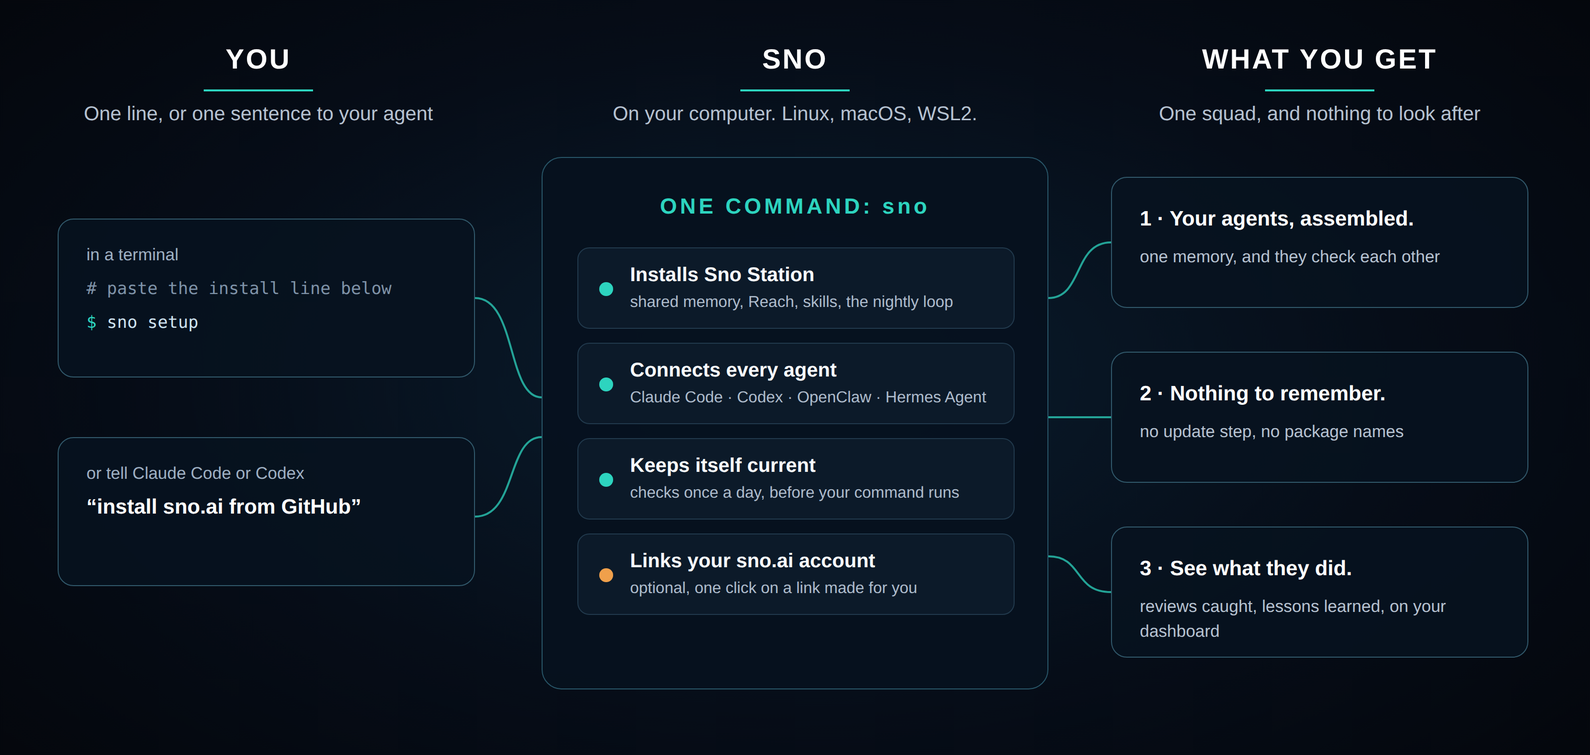
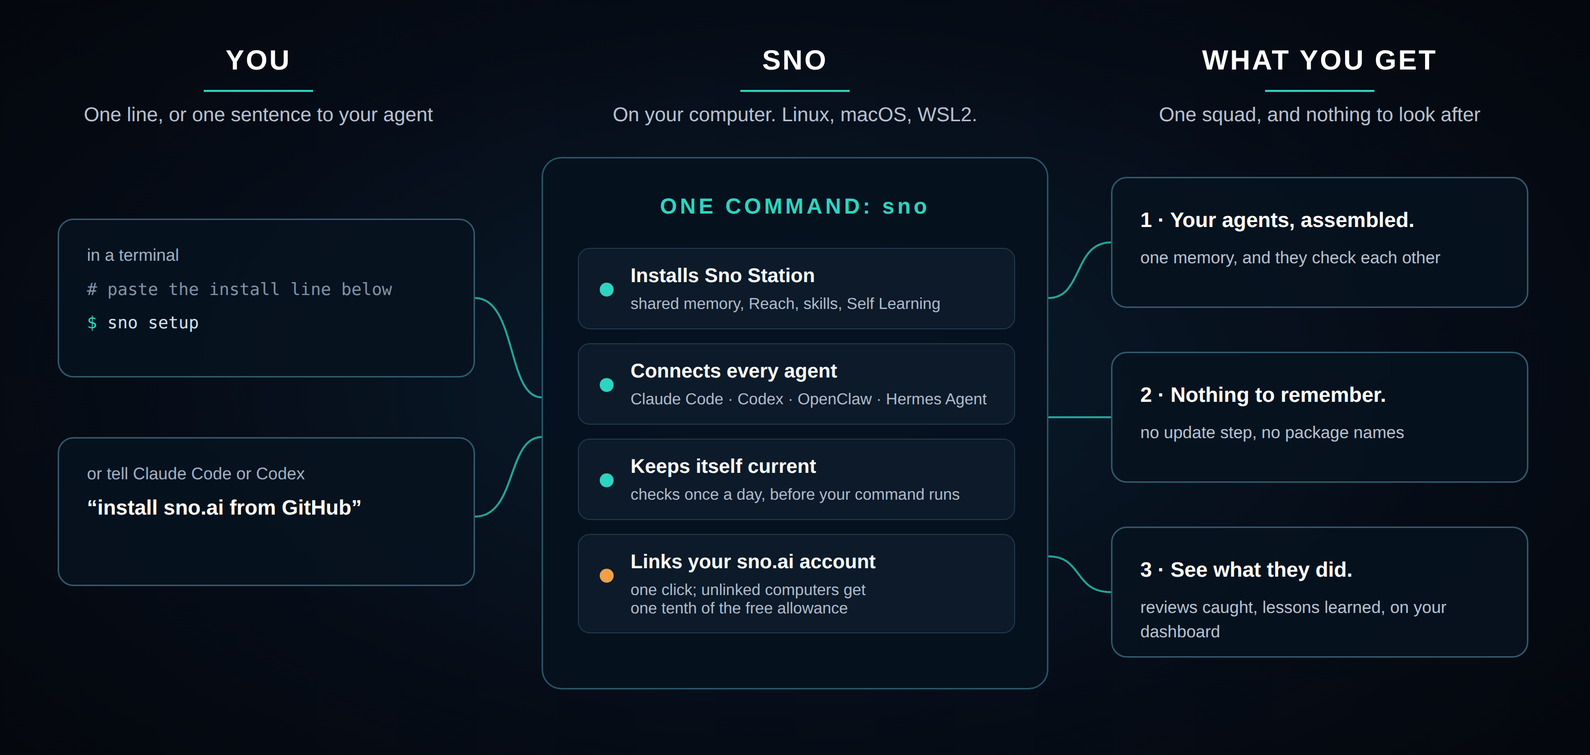
Sync COMMANDS.md README.md docs/images/how-it-works.png docs/images/sno-overview.png docs/images/src/how-it-works.html docs/images/src/sno-overview.html docs/readme/README.de.md docs/readme/README.es.md docs/readme/README.fr.md docs/readme/README.ja.md docs/readme/README.ko.md docs/readme/README.ru.

diff --git a/docs/images/src/sno-overview.html b/docs/images/src/sno-overview.html
@@ -24,13 +24,13 @@ The Sno command line
   <span class="c">products</span>    List optional product offers, or record a reply to one
   <span class="c">update</span>      Update CLI and actually installed products
   <span class="c">doctor</span>      Check CLI updates, installed products, skills and Station state
-  <span class="c">usage</span>       Show remaining model allowance and purchased balance
+  <span class="c">usage</span>       Show the remaining weekly allowance and your balance
   <span class="c">memory</span>      Use memory installed for Claude or Codex
   <span class="c">observe</span>     Send observability events
-  <span class="c">project</span>     Report local project memory and recursive self-improvement records
+  <span class="c">project</span>     Report local project memory and Self Learning records
   <span class="c">uninstall</span>   Uninstall one installed product, or all of them
-  <span class="c">account</span>     Manage account and machine identity
-  <span class="c">rem</span>         Send REM runs and human verdicts to SNO
+  <span class="c">account</span>     Link this computer to your sno.ai account
+  <span class="c">rem</span>         Send Self Learning runs and human verdicts to SNO
   <span class="c">station</span>     Manage this SNO Station
 
 <span class="h">More:</span>

diff --git a/docs/images/src/how-it-works.html b/docs/images/src/how-it-works.html
@@ -47,10 +47,10 @@ svg{position:absolute;left:0;top:0}
 </div>
 
 <div class="panel"><div class="title">ONE COMMAND: sno</div>
- <div class="row" style="top:90px"><i></i><b>Installs Sno Station</b><span>shared memory, Reach, skills, the nightly loop</span></div>
+ <div class="row" style="top:90px"><i></i><b>Installs Sno Station</b><span>shared memory, Reach, skills, Self Learning</span></div>
  <div class="row" style="top:186px"><i></i><b>Connects every agent</b><span>Claude Code · Codex · OpenClaw · Hermes Agent</span></div>
  <div class="row" style="top:282px"><i></i><b>Keeps itself current</b><span>checks once a day, before your command runs</span></div>
- <div class="row" style="top:378px"><i style="background:#f0a04b"></i><b>Links your sno.ai account</b><span>optional, one click on a link made for you</span></div>
+ <div class="row" style="top:378px;height:100px"><i style="background:#f0a04b"></i><b>Links your sno.ai account</b><span>one click; unlinked computers get<br>one tenth of the free allowance</span></div>
 </div>
 
 <div class="card out" style="left:1118px;top:178px;width:420px;height:132px"><b>1 · Your agents, assembled.</b><span>one memory, and they check each other</span></div>

diff --git a/COMMANDS.md b/COMMANDS.md
@@ -21,25 +21,25 @@ name works as the whole name: `sno stati cons` is `sno station consent`.
 | `sno products` | List optional product offers, or record a reply to one | `[PRODUCT]` `[ANSWER]` |
 | `sno update` | Update sno and the products you installed | `--reach-version` `--skills-version` `--memory-mode` `--harness` `--auto` `--quiet` |
 | `sno doctor` | Check CLI updates, installed products, skills and Station state |  |
-| `sno usage` | Show remaining model allowance and purchased balance |  |
-| `sno stats` | Show allowance, review catches, nightly lessons and stored memories on one page |  |
+| `sno usage` | Show the remaining weekly allowance and your balance |  |
+| `sno stats` | Show allowance, review catches, Self Learning lessons and stored memories on one page |  |
 | `sno memory` | Use memory installed for Claude, Codex or Cursor | `<ARGUMENTS>` |
 | `sno observe` | Record agent activity (used by agent hooks) | `<ARGUMENTS>` |
-| `sno project` | Show memories and nightly-review lessons for each project |  |
-| `sno project status` | Show memories and nightly-review lessons for this folder |  |
+| `sno project` | Show memories and Self Learning lessons for each project |  |
+| `sno project status` | Show memories and Self Learning lessons for this folder |  |
 | `sno project list` | List every project Sno has memories or lessons for |  |
 | `sno uninstall` | Uninstall one installed product, or all of them | `[PRODUCT]` `--yes` `--purge-state` |
 | `sno account` | Link this computer to your sno.ai account |  |
 | `sno account login` | Sign up or sign in, and link this computer to your sno.ai account | `--email` |
 | `sno account claim` | Print the link that approves linking this computer to your sno.ai account |  |
 | `sno account register` | Register this computer with Sno, without an account |  |
-| `sno rem` | Send nightly-review results and your answers on lessons to Sno |  |
-| `sno rem judge` | Send a finished nightly review as JSON on stdin |  |
+| `sno rem` | Send Self Learning results and your answers on lessons to Sno |  |
+| `sno rem judge` | Send a finished Self Learning as JSON on stdin |  |
 | `sno rem recall` | Pick the lessons that fit a session's first message |  |
 | `sno rem verdict` | Record your accept, reject or tbd answer on a lesson | `<JUDGMENT_ID>` `<VERDICT>` `--all-projects` |
 | `sno station` | Upload settings, checks and records for Station on this computer |  |
-| `sno station rem-start` | Start a nightly-review job in the background | `--type` `--scope` |
-| `sno station rem-status` | Show or wait for a background nightly-review job | `[JOB_ID]` `--wait` `--timeout` |
+| `sno station rem-start` | Start a memory maintenance job in the background | `--type` `--scope` |
+| `sno station rem-status` | Show or wait for a background memory maintenance job | `[JOB_ID]` `--wait` `--timeout` |
 | `sno station consent` | Show what this computer uploads to Sno, or set it to off, metadata-only or full | `[VALUE]` |
 | `sno station pause` | Pause uploads to Sno until you resume them |  |
 | `sno station resume` | Resume uploads at the setting you had before pausing |  |
@@ -79,7 +79,7 @@ name works as the whole name: `sno stati cons` is `sno station consent`.
 | `sno deliver-proof` | Prove a work-order step by running a command and recording the result |
 | `sno handoff-checkpoint` | Write and verify the progress record that lets another agent take over |
 | `sno medic` | Check the agent team on this machine; repairs nothing |
-| `sno rem-reflect` | The nightly self-reflection program and its lesson commands |
+| `sno rem-reflect` | The Self Learning program and its lesson commands |
 | `sno rotate-agent-resume` | Move a job to the other agent and verify it resumed |
 
 ## Not Sno commands

diff --git a/docs/readme/README.ko.md b/docs/readme/README.ko.md
@@ -15,7 +15,7 @@
 
 **에이전트가 대신 해 줄 수 있습니다.** 터미널을 열 필요조차 없습니다. Claude Code나 Codex에게 `install sno.ai from GitHub`라고 말하면, 이 페이지를 찾아 설치를 실행하고 모든 것을 설정합니다.
 
-**무엇을 업로드할지는 여러분이 정합니다.** `sno station consent`는 이 컴퓨터가 Sno에 무엇을 업로드하는지 보여 주고, 한 단어로 바꿉니다. `off`는 아무것도 업로드하지 않습니다. `metadata-only`는 사용 횟수 같은 통계만 업로드합니다. `full`(기본값)은 여기에 더해 야간 회고가 읽는 세션과 스킬, 그리고 검토용 짧은 발췌도 업로드합니다. 업로드한 내용은 여러분의 것입니다. Sno의 자체 프로그램만 여러분만을 위해 처리하고, 다른 누구도 보지 않습니다. 어느 쪽이든 메모리는 여러분의 컴퓨터에 남습니다.
+**무엇을 업로드할지는 여러분이 정합니다.** `sno station consent`는 이 컴퓨터가 Sno에 무엇을 업로드하는지 보여 주고, 한 단어로 바꿉니다. `off`는 아무것도 업로드하지 않습니다. `metadata-only`는 사용 횟수 같은 통계만 업로드합니다. `full`(기본값)은 여기에 더해 Self Learning가 읽는 세션과 스킬, 그리고 검토용 짧은 발췌도 업로드합니다. 업로드한 내용은 여러분의 것입니다. Sno의 자체 프로그램만 여러분만을 위해 처리하고, 다른 누구도 보지 않습니다. 어느 쪽이든 메모리는 여러분의 컴퓨터에 남습니다.
 
 ![작동 방식: 여러분의 한 줄 또는 한 문장, 여러분의 컴퓨터에서 실행되는 하나의 명령, 여러분이 얻는 세 가지](../images/how-it-works.png)
 
@@ -45,7 +45,7 @@ Linux(x86-64와 ARM64), macOS(Intel과 Apple silicon), Windows의 WSL2에서 동
 sno setup
 ```
 
-공유 메모리, 스킬, 야간 회고, 그리고 에이전트끼리 작업을 넘겨줄 때 쓰는 메시지 기능을 설치하고, 찾은 모든 에이전트에 연결합니다. 그런 다음 Claude Code나 Codex 안에서 이렇게 말하세요:
+공유 메모리, 스킬, Self Learning, 그리고 에이전트끼리 작업을 넘겨줄 때 쓰는 메시지 기능을 설치하고, 찾은 모든 에이전트에 연결합니다. 그런 다음 Claude Code나 Codex 안에서 이렇게 말하세요:
 
 ```text
 Sno onboard
@@ -55,7 +55,7 @@ Sno onboard
 
 ## sno.ai 계정 연결
 
-*마지막 업데이트: 2026-10-08.* 선택 사항입니다. 계정이 없어도 모든 것이 작동합니다. 연결하면 [sno.ai 대시보드](https://www.sno.ai/dashboard)에서 에이전트가 여러분을 위해 한 일을 볼 수 있습니다: 리뷰에서 무엇을 잡아냈는지, 밤사이 무엇을 배웠는지, 얼마나 오래 작업을 이어 갔는지.
+*마지막 업데이트: 2026-10-08.* 이 컴퓨터를 연결하기 전까지는 무료 사용량의 10분의 1만 제공됩니다: sno account claim. 연결은 무료입니다. 연결하면 [sno.ai 대시보드](https://www.sno.ai/dashboard)에서 에이전트가 여러분을 위해 한 일을 볼 수 있습니다: 리뷰에서 무엇을 잡아냈는지, 밤사이 무엇을 배웠는지, 얼마나 오래 작업을 이어 갔는지.
 
 **아직 계정이 없다면.** 온보딩이 이 컴퓨터 전용으로 만든 링크를 보여 줍니다. 링크를 열고, 가입한 뒤 Approve를 클릭하세요. 또는 에이전트에게 이메일 주소를 알려 주세요: 에이전트가 `sno account login --email you@example.com`을 실행하고, 여러분은 한 번만 로그인하면 됩니다.
 

diff --git a/docs/readme/README.zh-TW.md b/docs/readme/README.zh-TW.md
@@ -15,7 +15,7 @@
 
 **您的代理人可以替您完成。** 您完全不必打開終端機。對 Claude Code 或 Codex 說 `install sno.ai from GitHub`，它就會找到這個頁面、執行安裝，並把一切設定好。
 
-**由您決定要上傳什麼。** `sno station consent` 會顯示這台電腦上傳到 Sno 的內容，而且只用一個詞就能修改。`off` 什麼都不上傳。`metadata-only` 只上傳使用次數這類統計。`full`（預設）還會上傳每晚回顧讀到的對話紀錄和技能，以及一小段供審查的對話摘錄。上傳的內容仍然歸您所有，只由 Sno 自己的程式為您處理，不會給任何人看。不論選哪一種，您的記憶都會留在您的電腦上。
+**由您決定要上傳什麼。** `sno station consent` 會顯示這台電腦上傳到 Sno 的內容，而且只用一個詞就能修改。`off` 什麼都不上傳。`metadata-only` 只上傳使用次數這類統計。`full`（預設）還會上傳自我學習讀到的對話紀錄和技能，以及一小段供審查的對話摘錄。上傳的內容仍然歸您所有，只由 Sno 自己的程式為您處理，不會給任何人看。不論選哪一種，您的記憶都會留在您的電腦上。
 
 ![運作方式：您說一行指令或一句話，您的電腦執行一個指令，您得到三樣東西](../images/how-it-works.png)
 
@@ -46,7 +46,7 @@ sh -c 'sno_installer_body=$(curl -fsSL https://sno.ai/install) && printf "%s\n" 
 sno setup
 ```
 
-它會安裝共用記憶、技能、每晚回顧，以及代理人之間互相傳遞工作用的訊息功能，並把它們接到它找到的每一個代理人上。接著在 Claude Code 或 Codex 裡說：
+它會安裝共用記憶、技能、自我學習，以及代理人之間互相傳遞工作用的訊息功能，並把它們接到它找到的每一個代理人上。接著在 Claude Code 或 Codex 裡說：
 
 ```text
 Sno onboard
@@ -56,7 +56,7 @@ Sno onboard
 
 ## 連結您的 sno.ai 帳號
 
-*最後更新於 2026-10-08。* 選用。沒有帳號，一切照樣可以使用。連結之後，您可以在 [sno.ai 儀表板](https://www.sno.ai/dashboard)上看到您的代理人為您做了什麼：它們的審查抓到了什麼、它們在夜裡學到了什麼，以及它們持續工作了多久。
+*最後更新於 2026-10-08。* 這台電腦在綁定前只有免費額度的十分之一：sno account claim。綁定免費。連結之後，您可以在 [sno.ai 儀表板](https://www.sno.ai/dashboard)上看到您的代理人為您做了什麼：它們的審查抓到了什麼、它們在夜裡學到了什麼，以及它們持續工作了多久。
 
 **還沒有帳號。** Onboarding 會顯示一個只為這台電腦產生的連結。打開它、註冊，然後點選 Approve。或是把您的電子郵件告訴您的代理人：它會執行 `sno account login --email you@example.com`，您只需要登入一次。
 

diff --git a/docs/readme/README.zh-CN.md b/docs/readme/README.zh-CN.md
@@ -15,7 +15,7 @@
 
 **你的 agent 可以替你完成。** 你完全不必打开终端。对 Claude Code 或 Codex 说 `install sno.ai from GitHub`，它会找到这个页面，运行安装，并把一切设置好。
 
-**你来决定它上传什么。** `sno station consent` 会显示这台电脑上传到 Sno 的内容，并且只用一个词就能修改。`off` 什么都不上传。`metadata-only` 只上传使用次数这类统计。`full`（默认）还会上传每晚复盘读到的对话记录和技能，以及一小段供评审的对话摘录。上传的内容仍然归你所有，只由 Sno 自己的程序为你处理，不会给任何人看。无论选哪一种，你的记忆都留在你的电脑上。
+**你来决定它上传什么。** `sno station consent` 会显示这台电脑上传到 Sno 的内容，并且只用一个词就能修改。`off` 什么都不上传。`metadata-only` 只上传使用次数这类统计。`full`（默认）还会上传自我学习读到的对话记录和技能，以及一小段供评审的对话摘录。上传的内容仍然归你所有，只由 Sno 自己的程序为你处理，不会给任何人看。无论选哪一种，你的记忆都留在你的电脑上。
 
 ![工作原理：你说一行命令或一句话，你的电脑上运行一条命令，你得到三样东西](../images/how-it-works.png)
 
@@ -46,7 +46,7 @@ sh -c 'sno_installer_body=$(curl -fsSL https://sno.ai/install) && printf "%s\n" 
 sno setup
 ```
 
-它会安装共享记忆、技能、每晚复盘，以及 agent 之间互相传递工作用的消息功能，并把它们接入它找到的每一个 agent。然后在 Claude Code 或 Codex 里说：
+它会安装共享记忆、技能、自我学习，以及 agent 之间互相传递工作用的消息功能，并把它们接入它找到的每一个 agent。然后在 Claude Code 或 Codex 里说：
 
 ```text
 Sno onboard
@@ -56,7 +56,7 @@ Sno onboard
 
 ## 连接你的 sno.ai 账户
 
-*最后更新于 2026-10-08。* 可选。没有账户，一切照常可用。连接之后，你可以在 [sno.ai 控制台](https://www.sno.ai/dashboard) 上看到你的 agent 为你做了什么：它们的审查发现了什么，它们在夜里学到了什么，以及它们持续工作了多久。
+*最后更新于 2026-10-08。* 这台电脑在绑定前只有免费额度的十分之一：sno account claim。绑定免费。连接之后，你可以在 [sno.ai 控制台](https://www.sno.ai/dashboard) 上看到你的 agent 为你做了什么：它们的审查发现了什么，它们在夜里学到了什么，以及它们持续工作了多久。
 
 **还没有账户。** Onboarding 会显示一个只为这台电脑生成的链接。打开它，注册，然后点击 Approve。或者把你的邮箱告诉你的 agent：它会运行 `sno account login --email you@example.com`，你只需登录一次。
 

diff --git a/docs/readme/README.ru.md b/docs/readme/README.ru.md
@@ -24,7 +24,7 @@ Codex `install sno.ai from GitHub`, и он найдёт эту страницу
 
 **Вы решаете, что загружается.** `sno station consent` показывает, что этот компьютер загружает в Sno, и
 меняет это одним словом. `off` не загружает ничего. `metadata-only` загружает только счётчики использования.
-`full`, вариант по умолчанию, загружает ещё и сессии и навыки, которые читает ночной разбор, и короткие
+`full`, вариант по умолчанию, загружает ещё и сессии и навыки, которые читает Self Learning, и короткие
 отрывки для проверки. Загруженное остаётся вашим: его обрабатывают только собственные программы Sno, только
 для вас, и никто другой его не видит. Ваша память в любом случае остаётся на вашем компьютере.
 
@@ -62,7 +62,7 @@ Linux (x86-64 и ARM64), macOS (Intel и Apple silicon) и WSL2 в Windows. Ус
 sno setup
 ```
 
-Она устанавливает общую память, навыки, ночной разбор и сообщения, через которые агенты передают друг
+Она устанавливает общую память, навыки, Self Learning и сообщения, через которые агенты передают друг
 другу работу. Всё это она подключает к каждому найденному агенту. Затем скажите внутри Claude Code или Codex:
 
 ```text
@@ -75,7 +75,8 @@ Sno onboard
 
 ## Подключение аккаунта sno.ai
 
-*Обновлено 2026-10-08.* Необязательно. Всё работает и без аккаунта. Подключите его, чтобы видеть на своей
+*Обновлено 2026-10-08.* Пока вы не привяжете этот компьютер, ему доступна одна десятая бесплатного лимита: sno account claim.
+Привязка бесплатна. Подключите его, чтобы видеть на своей
 [панели sno.ai](https://www.sno.ai/dashboard), что ваши агенты сделали для вас: что поймали их ревью,
 чему они научились за ночь и как долго они продолжали работать.
 

diff --git a/docs/readme/README.fr.md b/docs/readme/README.fr.md
@@ -26,7 +26,7 @@ configure tout.
 
 **Vous choisissez ce qui est envoyé.** `sno station consent` montre ce que cet ordinateur envoie à
 Sno, et le change en un mot. `off` n'envoie rien. `metadata-only` n'envoie que des chiffres d'utilisation.
-`full`, le réglage par défaut, envoie aussi les sessions et les skills que lit votre bilan de la nuit, et de
+`full`, le réglage par défaut, envoie aussi les sessions et les skills que lit Self Learning, et de
 courts extraits à examiner. Ce qui est envoyé reste à vous : seuls les programmes de Sno le traitent, pour
 vous seul, et personne d'autre ne le voit. Votre mémoire reste sur votre ordinateur dans tous les cas.
 
@@ -65,7 +65,7 @@ chacun d'eux :
 sno setup
 ```
 
-Elle installe la mémoire partagée, les skills, le bilan de la nuit et les messages par lesquels vos agents
+Elle installe la mémoire partagée, les skills, Self Learning et les messages par lesquels vos agents
 se passent le travail. Elle branche le tout sur chaque agent qu'elle trouve. Dites ensuite ceci dans
 Claude Code ou Codex :
 
@@ -80,7 +80,8 @@ d'abord et vous dit ce qu'il a fait.
 
 ## Connecter votre compte sno.ai
 
-*Dernière mise à jour le 2026-10-08.* Facultatif. Tout fonctionne sans compte. Connectez-vous pour voir
+*Dernière mise à jour le 2026-10-08.* Cet ordinateur reçoit un dixième du quota gratuit tant que vous ne le liez pas : sno account claim.
+La liaison est gratuite. Connectez-vous pour voir
 sur votre [tableau de bord sno.ai](https://www.sno.ai/dashboard) ce que vos agents ont fait pour vous :
 ce que leurs révisions ont repéré, ce qu'ils ont appris pendant la nuit et combien de temps ils ont
 continué à travailler.

diff --git a/docs/readme/README.de.md b/docs/readme/README.de.md
@@ -26,7 +26,7 @@ alles ein.
 
 **Sie entscheiden, was hochgeladen wird.** `sno station consent` zeigt, was dieser Rechner zu Sno hochlädt, und
 ändert es mit einem Wort. `off` lädt nichts hoch. `metadata-only` lädt nur Nutzungszahlen hoch. `full`, die
-Voreinstellung, lädt außerdem die Sitzungen und Skills hoch, die Ihr nächtlicher Rückblick liest, und kurze
+Voreinstellung, lädt außerdem die Sitzungen und Skills hoch, die Self Learning liest, und kurze
 Auszüge zur Prüfung. Was hochgeladen wird, bleibt Ihres: Nur Snos eigene Programme verarbeiten es, nur für
 Sie, und niemand sonst sieht es. Ihr Gedächtnis bleibt in jedem Fall auf Ihrem Rechner.
 
@@ -65,7 +65,7 @@ von ihnen:
 sno setup
 ```
 
-Er installiert das gemeinsame Gedächtnis, die Skills, den nächtlichen Rückblick und die Nachrichten, mit
+Er installiert das gemeinsame Gedächtnis, die Skills, Self Learning und die Nachrichten, mit
 denen Ihre Agenten einander Arbeit übergeben. All das bindet er in jeden Agenten ein, den er findet. Sagen
 Sie dann in Claude Code oder Codex:
 
@@ -79,7 +79,8 @@ und sagt Ihnen, was er getan hat.
 
 ## Ihr sno.ai-Konto verbinden
 
-*Zuletzt aktualisiert am 2026-10-08.* Optional. Alles funktioniert ohne Konto. Verbinden Sie es, um auf
+*Zuletzt aktualisiert am 2026-10-08.* Bis Sie diesen Rechner verknüpfen, erhält er ein Zehntel des kostenlosen Kontingents: sno account claim.
+Das Verknüpfen ist kostenlos. Verbinden Sie ihn, um auf
 Ihrem [sno.ai-Dashboard](https://www.sno.ai/dashboard) zu sehen, was Ihre Agenten für Sie getan haben:
 was ihre Reviews gefunden haben, was sie über Nacht gelernt haben und wie lange sie durchgearbeitet haben.
 

diff --git a/docs/readme/README.es.md b/docs/readme/README.es.md
@@ -24,7 +24,7 @@ Codex `install sno.ai from GitHub` y encontrará esta página, ejecutará la ins
 
 **Tú eliges qué sube.** `sno station consent` muestra qué sube esta computadora a Sno, y
 lo cambia con una palabra. `off` no sube nada. `metadata-only` sube solo cifras de uso. `full`, la opción
-por defecto, sube además las sesiones y las skills que lee tu repaso nocturno, y fragmentos breves para
+por defecto, sube además las sesiones y las skills que lee Self Learning, y fragmentos breves para
 revisión. Lo que sube sigue siendo tuyo: solo los programas propios de Sno lo procesan, solo para ti, y nadie
 más lo ve. Tu memoria se queda en tu computadora en cualquier caso.
 
@@ -62,7 +62,7 @@ que ya tienes abierta.
 sno setup
 ```
 
-Instala la memoria compartida, las skills, el repaso nocturno y los mensajes con los que tus agentes se
+Instala la memoria compartida, las skills, Self Learning y los mensajes con los que tus agentes se
 pasan el trabajo. Conecta todo eso a cada agente que encuentra. Después di esto dentro de Claude Code o Codex:
 
 ```text
@@ -75,7 +75,8 @@ lo instala primero y te dice qué hizo.
 
 ## Conecta tu cuenta de sno.ai
 
-*Última actualización 2026-10-08.* Opcional. Todo funciona sin cuenta. Conéctala para ver en tu
+*Última actualización 2026-10-08.* Esta computadora recibe una décima parte de la cuota gratuita hasta que la vincules: sno account claim.
+Vincularla es gratis. Conéctala para ver en tu
 [panel de sno.ai](https://www.sno.ai/dashboard) lo que tus agentes hicieron por ti: qué detectaron
 sus revisiones, qué aprendieron durante la noche y cuánto tiempo siguieron trabajando.
 

diff --git a/README.md b/README.md
@@ -24,7 +24,7 @@ Codex `install sno.ai from GitHub` and it finds this page, runs the install, and
 
 **You choose what it uploads.** `sno station consent` shows what this computer uploads to Sno, and
 changes it with one word. `off` uploads nothing. `metadata-only` uploads usage counts only. `full`, the
-default, also uploads the sessions and skills your nightly review reads, and short excerpts for review.
+default, also uploads the sessions and skills Self Learning reads, and short excerpts for review.
 What it uploads stays yours: only Sno's own programs process it, for you alone, and nobody else sees it.
 Your memory stays on your computer either way.
 
@@ -62,7 +62,7 @@ are in.
 sno setup
 ```
 
-It installs the shared memory, the skills, the nightly review, and the messaging your agents use to
+It installs the shared memory, the skills, Self Learning, and the messaging your agents use to
 pass work to each other. It wires all of them into every agent it finds. Then say this inside Claude
 Code or Codex:
 
@@ -76,7 +76,8 @@ installs first and tells you what it did.
 
 ## Connect your sno.ai account
 
-*Last updated 2026-10-08.* Optional. Everything works without an account. Connect to see on your
+*Last updated 2026-10-08.* This computer gets one tenth of the free allowance until you link it: sno account claim.
+Linking is free. Connect to see on your
 [sno.ai dashboard](https://www.sno.ai/dashboard) what your agents did for you: what their reviews
 caught, what they learned overnight, and how long they kept working.
 
